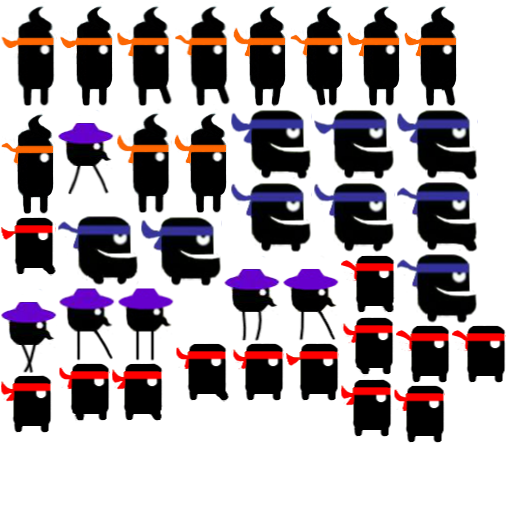
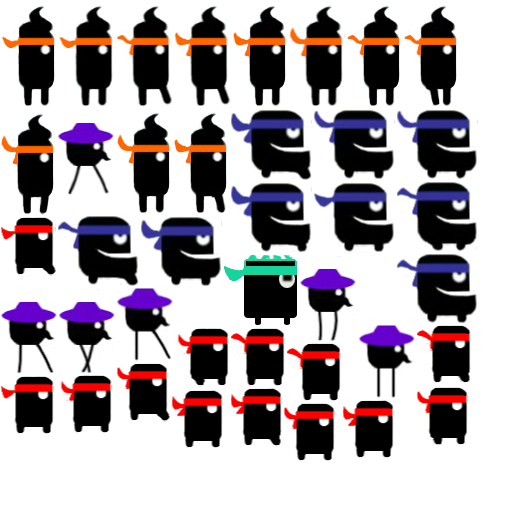
修改

diff --git a/bin-debug/game/Hero.js b/bin-debug/game/Hero.js
@@ -14,6 +14,8 @@ var Hero = (function (_super) {
     __extends(Hero, _super);
     function Hero(type) {
         var _this = _super.call(this) || this;
+        _this._nameStr = ["王者啦啦", "王者Top", "铂金哎呦喂", "钻石佳佳", "钻石咔咔"];
+        _this._nameColor = [0xff0000, 0xfe6702, 0x343498, 0x6600cd, 0x15d49c];
         _this.init(type);
         return _this;
     }
@@ -25,9 +27,22 @@ var Hero = (function (_super) {
         this.addChild(this._mc);
         this._mc.gotoAndPlay("stay", -1);
         this._mc.anchorOffsetY = this._mc.height;
+        this.width = this._mc.width;
+        if (!this._name) {
+            this._name = new egret.TextField();
+            this.addChild(this._name);
+        }
+        this._name.text = this._nameStr[type];
+        this._name.textColor = this._nameColor[type];
+        this._name.size = 26;
+        this._name.bold = true;
+        this._name.y = -(this._mc.height + this._name.height);
+        this._name.x = this.width / 2 - this._name.width / 2;
     };
     Hero.prototype.setIndex = function (type) {
-        this.removeChild(this._mc);
+        if (this._mc && this._mc.parent) {
+            this._mc.parent.removeChild(this._mc);
+        }
         this.init(type);
     };
     return Hero;

diff --git a/bin-debug/game/GameWin.js b/bin-debug/game/GameWin.js
@@ -15,7 +15,7 @@ var GameWin = (function (_super) {
     __extends(GameWin, _super);
     function GameWin() {
         var _this = _super.call(this) || this;
-        _this.stickH = 6;
+        _this.stickH = 0;
         _this.lv = 10;
         _this.isDouble = false;
         _this.isCilck = true;
@@ -46,7 +46,7 @@ var GameWin = (function (_super) {
     GameWin.prototype.timerFunc = function () {
         var maxH = this.stageH - 300;
         if (this.stickH < maxH) {
-            this.stickH += 8;
+            this.stickH += 10;
             this.stick.height = this.stickH;
         }
     };
@@ -186,8 +186,8 @@ var GameWin = (function (_super) {
             //移出
             var data = _this.randomX(_this.lv, 70, 100);
             _this.rightRect.width = data.width;
-            egret.Tween.get(_this.red).to({ x: data.x + _this.rightRect.width / 2 - _this.red.width / 2 }, 300);
-            egret.Tween.get(_this.rightRect).to({ x: data.x }, 300).call(function () {
+            egret.Tween.get(_this.red).to({ x: data.x + _this.rightRect.width / 2 - _this.red.width / 2 }, 500);
+            egret.Tween.get(_this.rightRect).to({ x: data.x }, 500).call(function () {
                 _this.touchEnabled = true;
             }, _this);
         }, this);

diff --git a/src/game/Hero.ts b/src/game/Hero.ts
@@ -3,6 +3,9 @@
 class Hero extends egret.Sprite {
 	public _mcDataFactory: egret.MovieClipDataFactory;
 	public _mc: egret.MovieClip;
+	public _name: egret.TextField;
+	public _nameStr: string[] = ["王者啦啦", "王者Top", "铂金哎呦喂", "钻石佳佳", "钻石咔咔"];
+	public _nameColor: number[] = [0xff0000, 0xfe6702, 0x343498, 0x6600cd, 0x15d49c];
 	public constructor(type: number) {
 		super();
 		this.init(type);
@@ -16,10 +19,24 @@ class Hero extends egret.Sprite {
 		this.addChild(this._mc);
 		this._mc.gotoAndPlay("stay", -1);
 		this._mc.anchorOffsetY = this._mc.height;
+		this.width = this._mc.width;
+
+		if (!this._name) {
+			this._name = new egret.TextField();
+			this.addChild(this._name);
+		}
+		this._name.text = this._nameStr[type];
+		this._name.textColor = this._nameColor[type];
+		this._name.size = 26;
+		this._name.bold = true;
+		this._name.y = -(this._mc.height + this._name.height);
+		this._name.x = this.width / 2 - this._name.width / 2;
 	}
 
 	public setIndex(type): void {
-		this.removeChild(this._mc);
+		if (this._mc && this._mc.parent) {
+			this._mc.parent.removeChild(this._mc);
+		}
 		this.init(type);
 	}
 

diff --git a/src/game/GameWin.ts b/src/game/GameWin.ts
@@ -23,7 +23,7 @@ class GameWin extends eui.Component {
 	public stageW: number;
 	public stageH: number;
 	public timer: egret.Timer;
-	private stickH: number = 6;
+	private stickH: number = 0;
 	private lv: number = 10;
 	private isDouble: boolean = false;
 	private isCilck: boolean = true;
@@ -61,7 +61,7 @@ class GameWin extends eui.Component {
 	private timerFunc(): void {
 		let maxH: number = this.stageH - 300;
 		if (this.stickH < maxH) {
-			this.stickH += 8;
+			this.stickH += 10;
 			this.stick.height = this.stickH;
 		}
 	}
@@ -209,8 +209,8 @@ class GameWin extends eui.Component {
 			//移出
 			let data: { width, x } = this.randomX(this.lv, 70, 100);
 			this.rightRect.width = data.width;
-			egret.Tween.get(this.red).to({ x: data.x + this.rightRect.width / 2 - this.red.width / 2 }, 300);
-			egret.Tween.get(this.rightRect).to({ x: data.x }, 300).call(() => {
+			egret.Tween.get(this.red).to({ x: data.x + this.rightRect.width / 2 - this.red.width / 2 }, 500);
+			egret.Tween.get(this.rightRect).to({ x: data.x }, 500).call(() => {
 				this.touchEnabled = true;
 			}, this)
 		}, this);

diff --git a/bin-debug/game/GameHoneWin.js b/bin-debug/game/GameHoneWin.js
@@ -55,7 +55,7 @@ var GameHoneWin = (function (_super) {
                     StageUtils.ins().getUIStage().addChild(new GameWin);
                 }
                 else if (target == this.selectBtn) {
-                    GameData.ins().index = GameData.ins().index < 4 ? GameData.ins().index + 1 : 1;
+                    GameData.ins().index = GameData.ins().index < 4 ? GameData.ins().index + 1 : 0;
                     console.log("第" + GameData.ins().index + "人物");
                     this._mc.setIndex(GameData.ins().index);
                     this._mc.x = StageUtils.ins().getWidth() / 2 - this._mc.width / 2;

diff --git a/src/game/GameHoneWin.ts b/src/game/GameHoneWin.ts
@@ -54,7 +54,7 @@ class GameHoneWin extends eui.Component {
 					StageUtils.ins().getUIStage().removeChild(this);
 					StageUtils.ins().getUIStage().addChild(new GameWin);
 				} else if (target == this.selectBtn) {
-					GameData.ins().index = GameData.ins().index < 4 ? GameData.ins().index + 1 : 1;
+					GameData.ins().index = GameData.ins().index < 4 ? GameData.ins().index + 1 : 0;
 					console.log("第" + GameData.ins().index + "人物");
 					this._mc.setIndex(GameData.ins().index);
 					this._mc.x = StageUtils.ins().getWidth() / 2 - this._mc.width / 2;

diff --git a/bin-debug/game/GameData.js b/bin-debug/game/GameData.js
@@ -15,7 +15,7 @@ var GameData = (function (_super) {
     __extends(GameData, _super);
     function GameData() {
         var _this = _super.call(this) || this;
-        _this.index = 1; //第几个英雄
+        _this.index = 0; //第几个英雄
         _this.grade = 0; //分数
         _this.bestGrade = 0; //最佳分数
         return _this;

diff --git a/src/game/GameData.ts b/src/game/GameData.ts
@@ -2,7 +2,7 @@
  * 游戏数据
  */
 class GameData extends BaseClass {
-	public index: number = 1;//第几个英雄
+	public index: number = 0;//第几个英雄
 	public grade: number = 0;//分数
 	public bestGrade: number = 0;//最佳分数
 	public constructor() {
